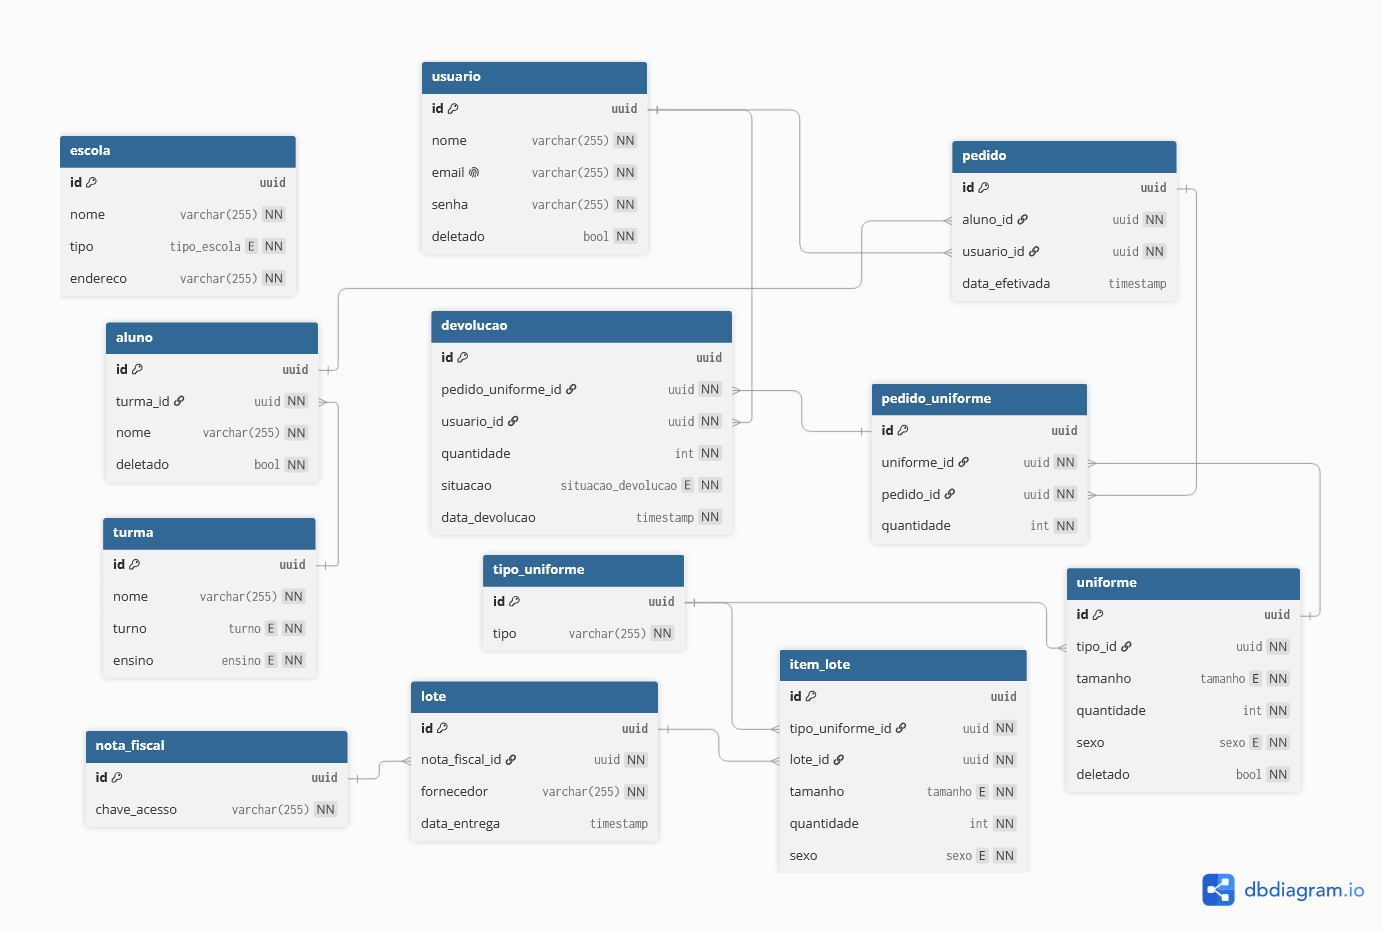
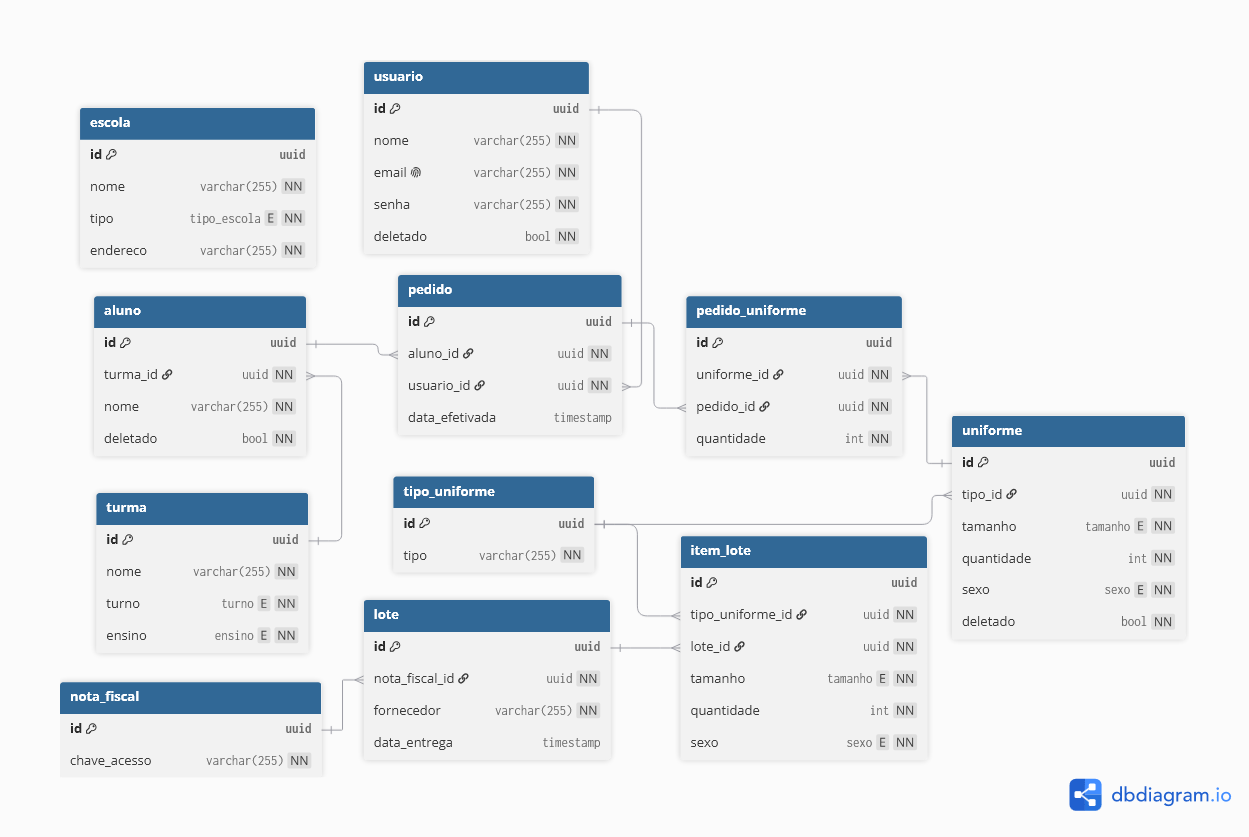
feat: trocar senha endpoint

diff --git a/backend/src/test/java/com/six_m/uniform/domain/UsuarioServiceTest.java b/backend/src/test/java/com/six_m/uniform/domain/UsuarioServiceTest.java
@@ -3,6 +3,8 @@ package com.six_m.uniform.domain;
 import com.six_m.uniform.domain.usuario.Usuario;
 import com.six_m.uniform.domain.usuario.UsuarioRepository;
 import com.six_m.uniform.domain.usuario.UsuarioService;
+import com.six_m.uniform.domain.usuario.dto.RequestTrocarSenhaDTO;
+import com.six_m.uniform.exception.NotFoundException;
 import com.six_m.uniform.shared.dto.MessageResponseDTO;
 import com.six_m.uniform.domain.usuario.dto.RequestAtualizarUsuarioDTO;
 import com.six_m.uniform.domain.usuario.dto.RequestRegistrarUsuarioDTO;
@@ -161,6 +163,64 @@ public class UsuarioServiceTest {
 
         assertEquals("Este email não existe", exception.getMessage());
         verify(usuarioRepository, never()).save(any());
+    }
+
+    @Test
+    void deveTrocarSenhaComSucesso() {
+        RequestTrocarSenhaDTO dto = new RequestTrocarSenhaDTO("rafael@teste.com", "novaSenha123");
+
+        Usuario usuario = Usuario.builder()
+                .id(UUID.randomUUID())
+                .nome("Rafael")
+                .email("rafael@teste.com")
+                .senha("senha-antiga-criptografada")
+                .build();
+
+        when(usuarioRepository.findByEmail("rafael@teste.com")).thenReturn(Optional.of(usuario));
+        when(passwordEncoder.encode("novaSenha123")).thenReturn("senha-nova-criptografada");
+        when(usuarioRepository.save(any(Usuario.class))).thenAnswer(invocation -> invocation.getArgument(0));
+
+        MessageResponseDTO resultado = usuarioService.trocarSenha(dto);
+
+        assertEquals("Senha atualizada com sucesso", resultado.message());
+    }
+
+    @Test
+    void deveCriptografarNovaSenhaAntesDeSalvarAoTrocarSenha() {
+        RequestTrocarSenhaDTO dto = new RequestTrocarSenhaDTO("rafael@teste.com", "senha-pura-nova");
+
+        Usuario usuario = Usuario.builder()
+                .id(UUID.randomUUID())
+                .nome("Rafael")
+                .email("rafael@teste.com")
+                .senha("senha-antiga-criptografada")
+                .build();
+
+        when(usuarioRepository.findByEmail("rafael@teste.com")).thenReturn(Optional.of(usuario));
+        when(passwordEncoder.encode("senha-pura-nova")).thenReturn("senha-nova-encriptada");
+        when(usuarioRepository.save(any(Usuario.class))).thenAnswer(invocation -> invocation.getArgument(0));
+
+        usuarioService.trocarSenha(dto);
+
+        ArgumentCaptor<Usuario> captor = ArgumentCaptor.forClass(Usuario.class);
+        verify(usuarioRepository).save(captor.capture());
+
+        assertEquals("senha-nova-encriptada", captor.getValue().getSenha());
+        verify(passwordEncoder).encode("senha-pura-nova");
+    }
+
+    @Test
+    void deveLancarExcecaoQuandoUsuarioNaoExisteAoTrocarSenha() {
+        RequestTrocarSenhaDTO dto = new RequestTrocarSenhaDTO("naoexiste@teste.com", "novaSenha123");
+
+        when(usuarioRepository.findByEmail("naoexiste@teste.com")).thenReturn(Optional.empty());
+
+        NotFoundException exception = assertThrows(NotFoundException.class,
+                () -> usuarioService.trocarSenha(dto));
+
+        assertEquals("Usuário não encontrado com o email informado", exception.getMessage());
+        verify(usuarioRepository, never()).save(any());
+        verify(passwordEncoder, never()).encode(any());
     }
 
     @Test

diff --git a/backend/src/main/java/com/six_m/uniform/domain/usuario/UsuarioController.java b/backend/src/main/java/com/six_m/uniform/domain/usuario/UsuarioController.java
@@ -2,6 +2,7 @@ package com.six_m.uniform.domain.usuario;
 
 import com.six_m.uniform.domain.usuario.dto.RequestAtualizarUsuarioDTO;
 import com.six_m.uniform.domain.usuario.dto.RequestRegistrarUsuarioDTO;
+import com.six_m.uniform.domain.usuario.dto.RequestTrocarSenhaDTO;
 import com.six_m.uniform.domain.usuario.dto.ResponseUsuarioDTO;
 import com.six_m.uniform.shared.dto.MessageResponseDTO;
 import io.swagger.v3.oas.annotations.Operation;
@@ -45,6 +46,18 @@ public class UsuarioController {
     public ResponseEntity<ResponseUsuarioDTO> atualizarUsuario(@Valid @RequestBody RequestAtualizarUsuarioDTO request) {
         ResponseUsuarioDTO response = usuarioService.atualizarUsuario(request);
         return ResponseEntity.status(HttpStatus.OK).body(response);
+    }
+
+    @PutMapping("/trocar-senha")
+    @Operation(summary = "Trocar senha", description = "Atualiza a senha do usuário identificado pelo email informado. Não exige autenticação")
+    @ApiResponses({
+            @ApiResponse(responseCode = "200", description = "Senha atualizada com sucesso"),
+            @ApiResponse(responseCode = "400", description = "Dados inválidos"),
+            @ApiResponse(responseCode = "404", description = "Usuário não encontrado com o email informado")
+    })
+    public ResponseEntity<MessageResponseDTO> trocarSenha(@Valid @RequestBody RequestTrocarSenhaDTO request) {
+        MessageResponseDTO response = usuarioService.trocarSenha(request);
+        return ResponseEntity.ok(response);
     }
 
     @DeleteMapping("/deletar")

diff --git a/backend/src/main/java/com/six_m/uniform/domain/usuario/UsuarioService.java b/backend/src/main/java/com/six_m/uniform/domain/usuario/UsuarioService.java
@@ -2,6 +2,7 @@ package com.six_m.uniform.domain.usuario;
 
 import com.six_m.uniform.domain.usuario.dto.*;
 import com.six_m.uniform.exception.BadRequestException;
+import com.six_m.uniform.exception.NotFoundException;
 import com.six_m.uniform.shared.dto.MessageResponseDTO;
 import lombok.RequiredArgsConstructor;
 import org.springframework.security.core.context.SecurityContextHolder;
@@ -52,6 +53,17 @@ public class UsuarioService {
         usuario = usuarioRepository.save(usuario);
 
         return new ResponseUsuarioDTO(usuario.getId(), usuario.getNome(), usuario.getEmail());
+    }
+
+    @Transactional
+    public MessageResponseDTO trocarSenha(RequestTrocarSenhaDTO dto) {
+        Usuario usuario = usuarioRepository.findByEmail(dto.email())
+                .orElseThrow(() -> new NotFoundException("Usuário não encontrado com o email informado"));
+
+        usuario.setSenha(passwordEncoder.encode(dto.novaSenha()));
+        usuarioRepository.save(usuario);
+
+        return new MessageResponseDTO("Senha atualizada com sucesso");
     }
 
     @Transactional

diff --git a/backend/src/main/java/com/six_m/uniform/config/SecurityConfig.java b/backend/src/main/java/com/six_m/uniform/config/SecurityConfig.java
@@ -38,6 +38,7 @@ public class SecurityConfig {
                         .dispatcherTypeMatchers(DispatcherType.ERROR).permitAll()
                         .requestMatchers(HttpMethod.POST, "/api/auth/login").permitAll()
                         .requestMatchers(HttpMethod.POST, "/api/usuario/registrar").permitAll()
+                        .requestMatchers(HttpMethod.PUT, "/api/usuario/trocar-senha").permitAll()
                         .requestMatchers("/v3/api-docs/**", "/swagger-ui/**", "/swagger-ui.html").permitAll()
                         .anyRequest().authenticated())
                 .addFilterBefore(securityFilter, UsernamePasswordAuthenticationFilter.class)

diff --git a/backend/src/main/java/com/six_m/uniform/domain/usuario/dto/RequestTrocarSenhaDTO.java b/backend/src/main/java/com/six_m/uniform/domain/usuario/dto/RequestTrocarSenhaDTO.java
@@ -1,0 +1,16 @@
+package com.six_m.uniform.domain.usuario.dto;
+
+import jakarta.validation.constraints.Email;
+import jakarta.validation.constraints.NotEmpty;
+import jakarta.validation.constraints.Size;
+
+public record RequestTrocarSenhaDTO(
+        @Email(message = "O formato do email é inválido")
+        @NotEmpty(message = "Email é obrigatório")
+        String email,
+
+        @NotEmpty(message = "Nova senha é obrigatória")
+        @Size(min = 6, message = "A nova senha deve ter no mínimo 6 caracteres")
+        String novaSenha
+) {
+}
